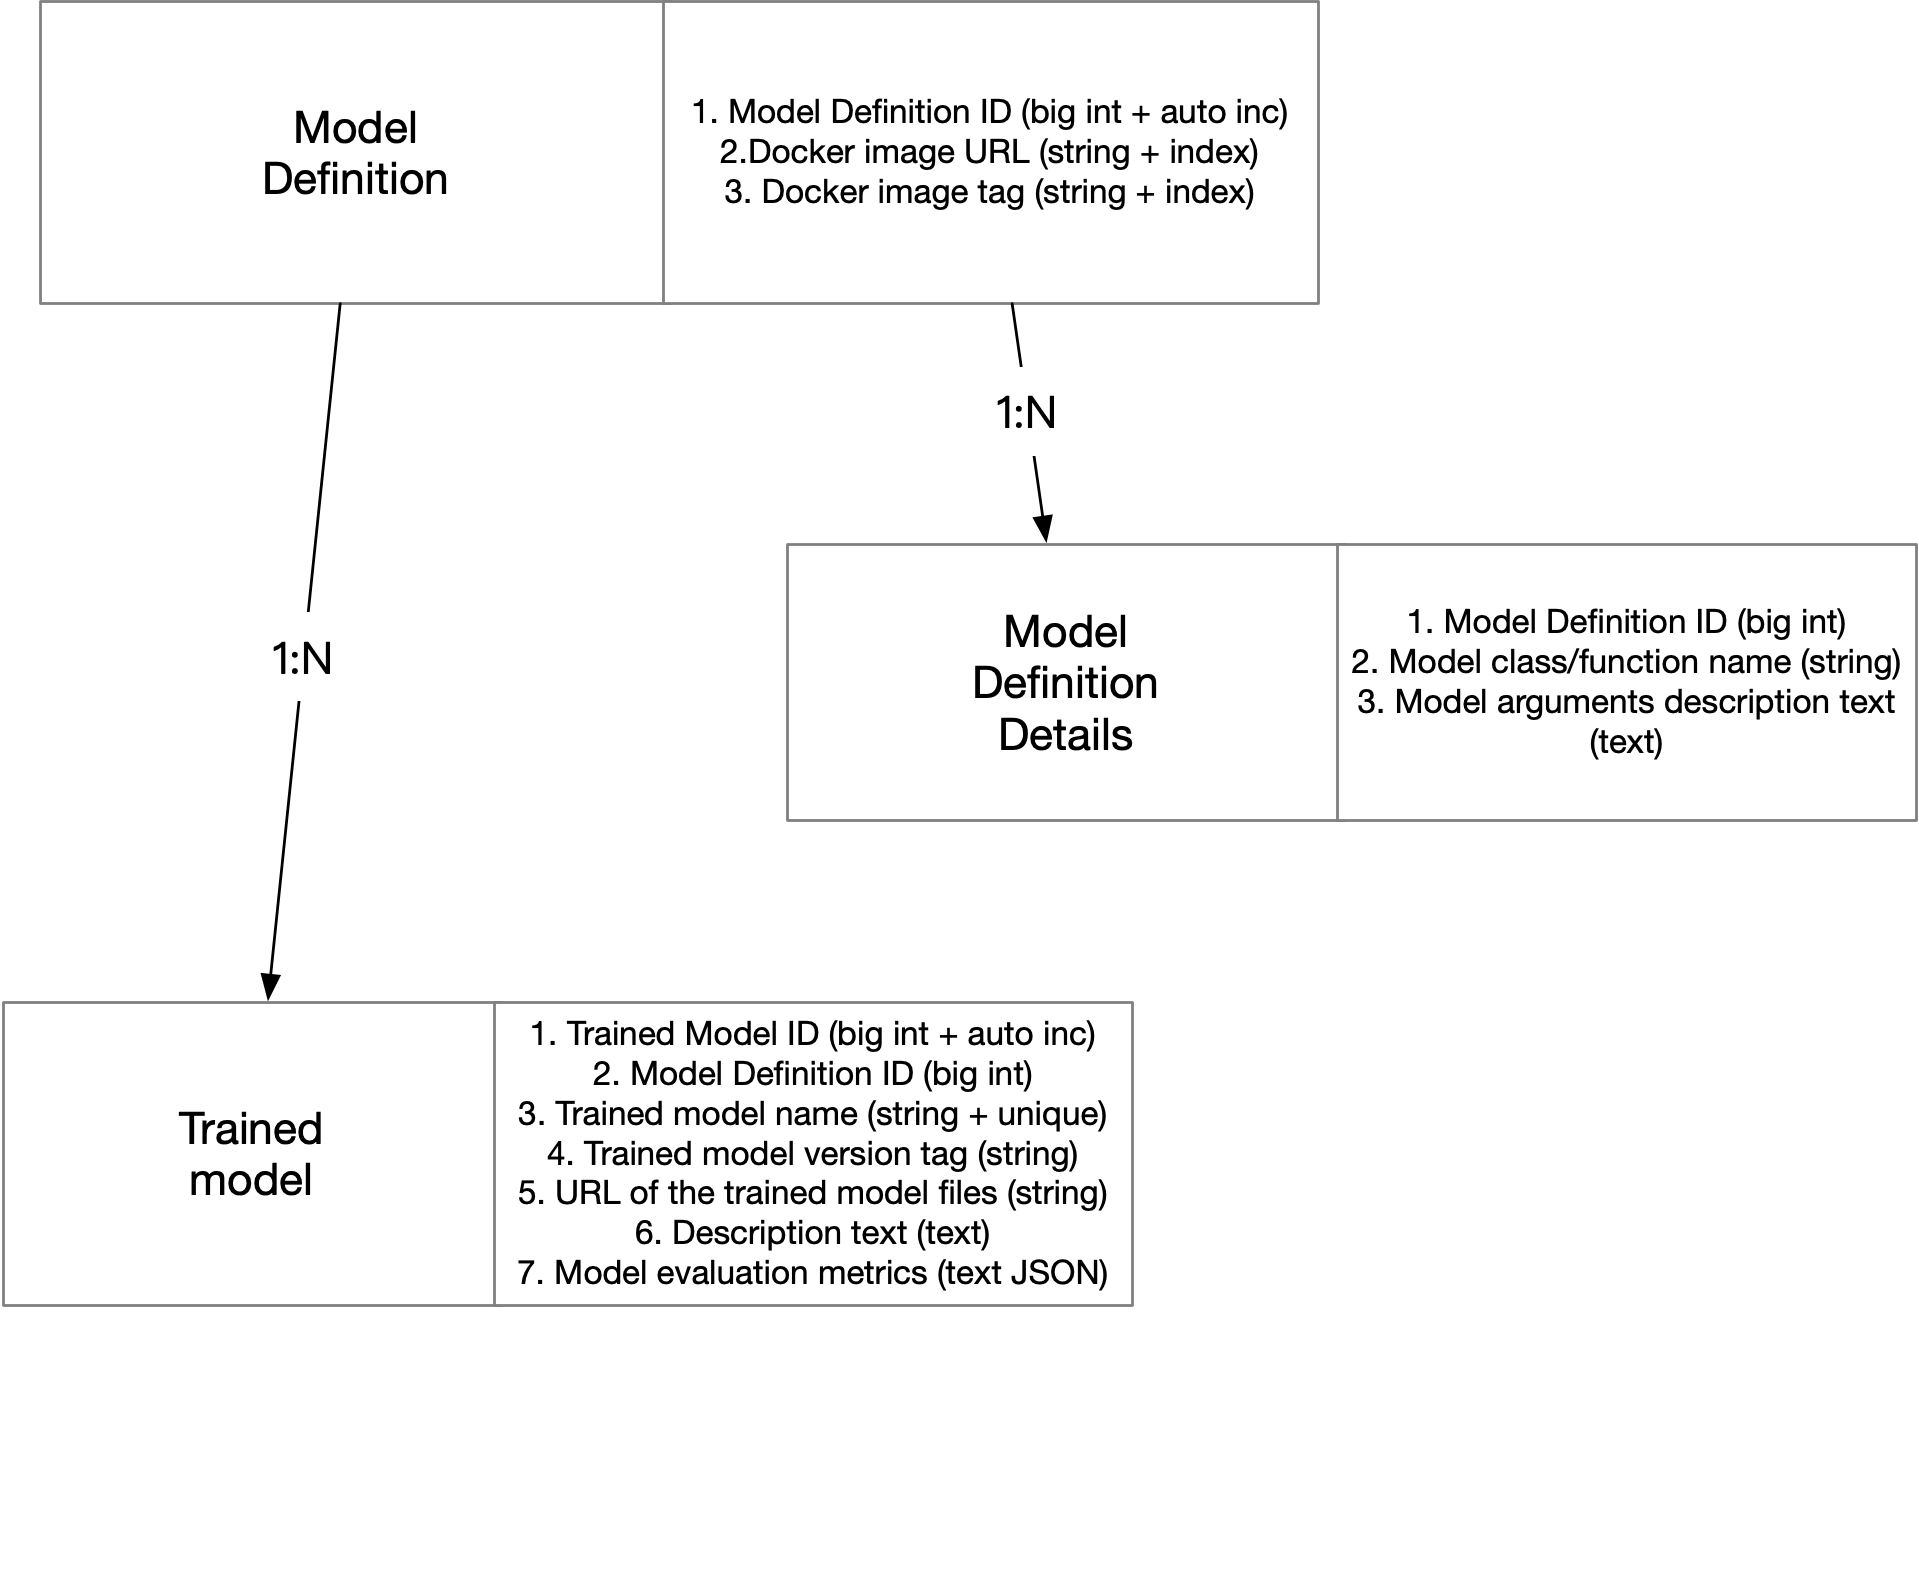
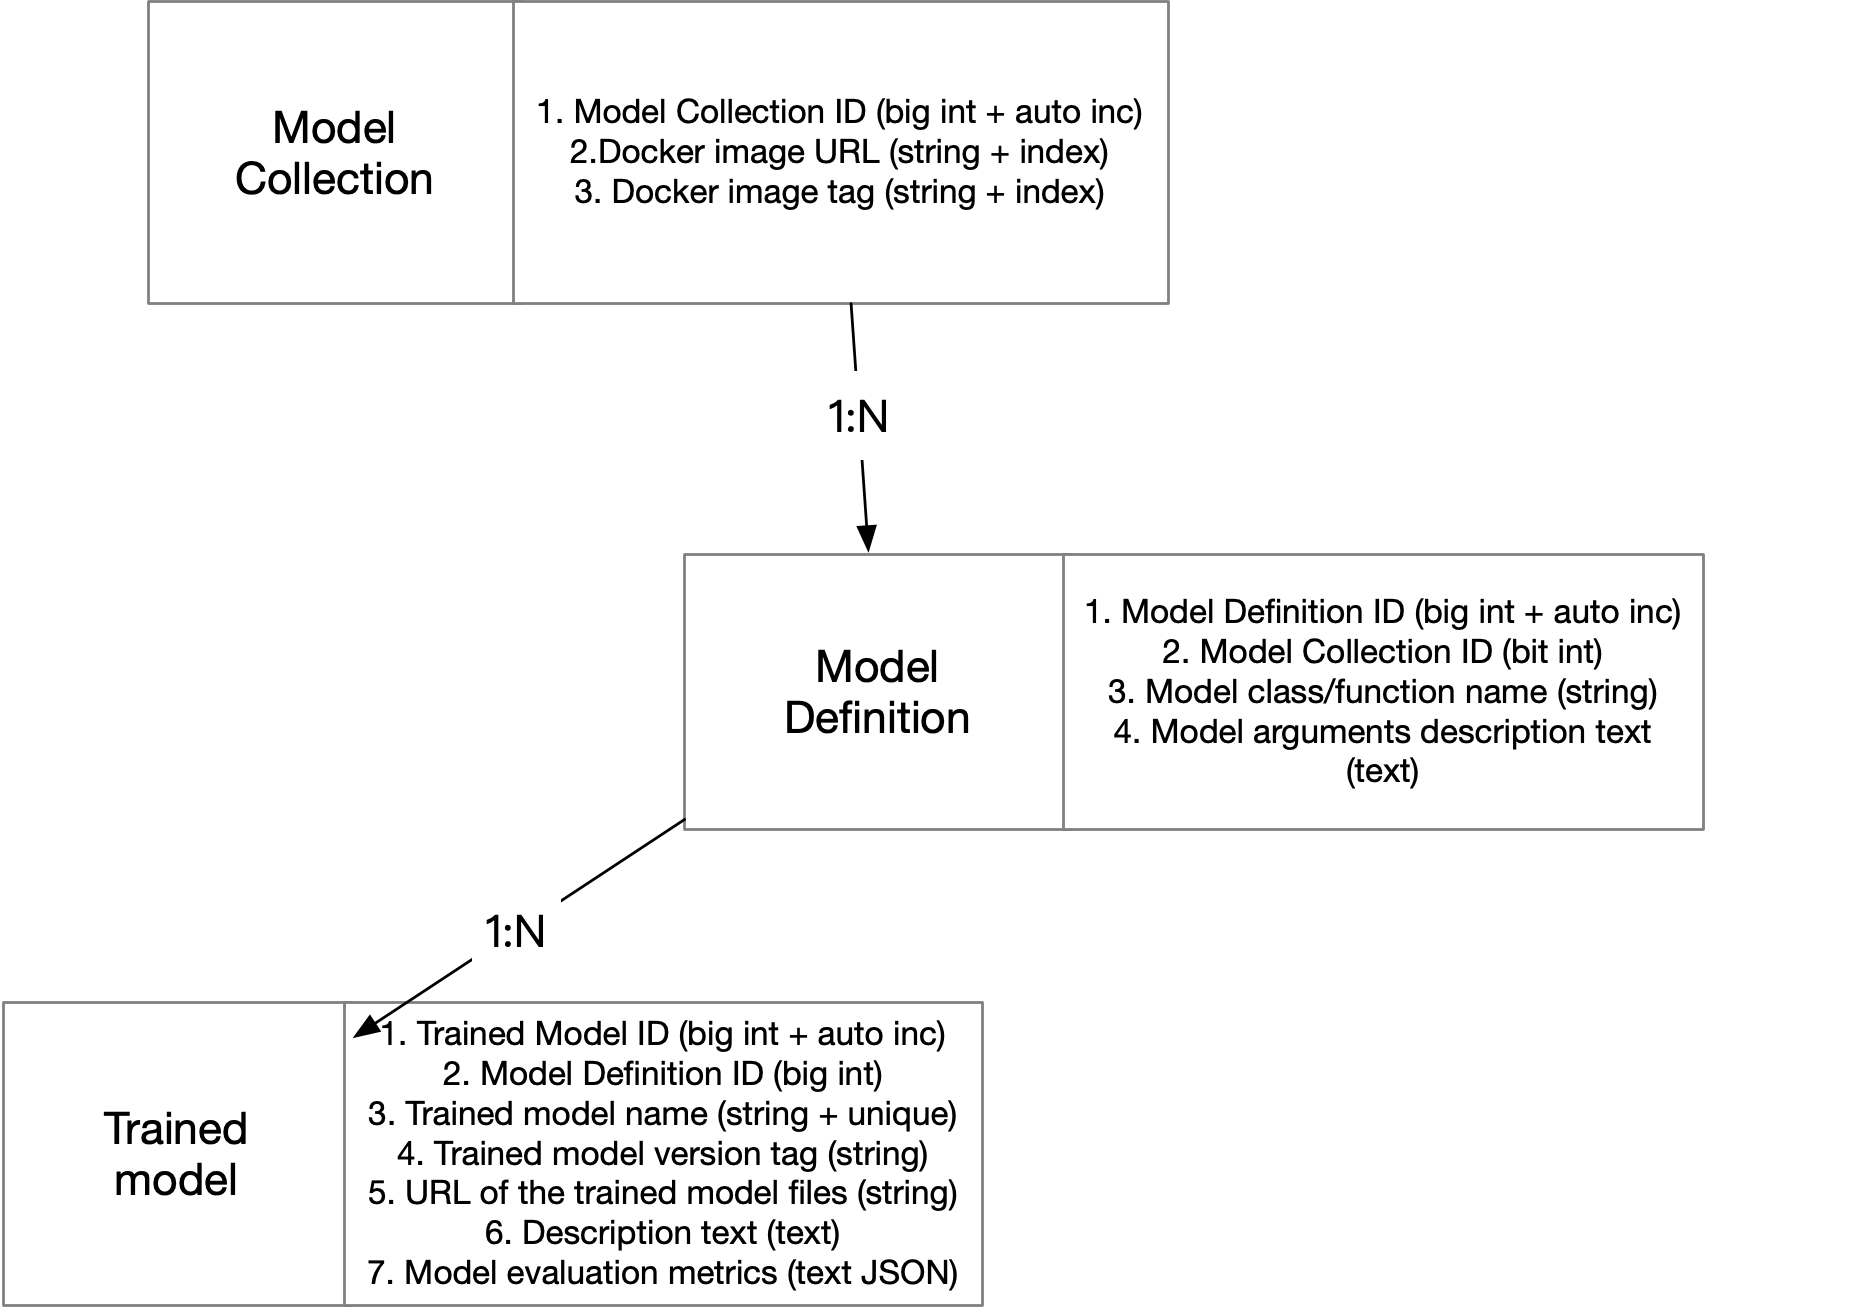
Update model zoo design ER image and re-phrase

diff --git a/doc/design/model_zoo.md b/doc/design/model_zoo.md
@@ -38,6 +38,7 @@ The above training and prediction example reveals some concepts related to model
 1. A **dataset** is defined and generated by a SQL SELECT statement. For example, `SELECT * FROM employee WHERE onboard_year < 2019`.
 1. A **data source** is a table, for example, `employee`.  Please be aware that we can cache and reuse a dataset until its data sources are changed.
 1. A **model definition**, for example, `MyDNNRegressor`, is a Python class or other kinds of code that specify a model.
+1. A **model collection** is a Docker image that packs a list model definitions.
 1. The SQL data to model inputs conversion, or **data conversion**, is the COLUMN and optionally LABEL clauses.
 1. Hyperparameters
    1. **Model hyperparameters** are some key-value pairs specified in the WITH clause. They are arguments to the constructor of the model definition.
@@ -56,7 +57,7 @@ In SQLFlow SQL grammar, the identifiers after `TRAIN`, `USING` and `INTO` have d
 
 ### Versioning and Releasing
 
-A key to this design is to know that both the model definition and the trained model have versions. Suppose that an analyst trained a model using the definition in `my_dnn_regressor.py` and got `my_first_model`; soon after that, a data scientist changed `my_dnn_regressor.py` and the analyst re-trained the model into `my_second_model` with slightly modified hyperparameter settings. The analyst must be aware that he should use the same version of `my_dnn_regressor.py` to train these two models. Then if the analyst decides to publish the trained model `my_second_model` for online prediction, he should choose to use `my_second_model` rather than `my_first_model`.
+A key to this design is to know that both the model definitions and the trained models have versions. Suppose that an analyst trained a model using the definition in `my_dnn_regressor.py` and got `my_first_model`; soon after that, a data scientist changed `my_dnn_regressor.py` and the analyst re-trained the model into `my_second_model` with slightly modified hyperparameter settings. The analyst must be aware that he should use the same version of `my_dnn_regressor.py` to train these two models. Then if the analyst decides to publish the trained model `my_second_model` for online prediction, he should choose to use `my_second_model` rather than `my_first_model`.
 
 We can use version management tools like Git and release engineering tools like Docker and save the trained model with a unique name. Here follows our proposal.
 
@@ -69,12 +70,12 @@ We can use version management tools like Git and release engineering tools like 
 
 Please refer to [contribute models](../contribute_models.md) section "Define Models as Python Source Code" for details of how to develop a custom model definition. You can manage your model definition with a git repository before releasing it to the model zoo.
 
-### Release the Model Definition Docker Image
+### Release the Model Collection Docker Image
 
-When the model developer needs to release the model for SQLFlow to use, run the below command to release your model definition.
+When the model developer needs to release the model for SQLFlow to use, run the below command to release your model definitions.
 
 ```bash
-$ sqlflow release modeldef my_awesome_model/ model_image:v0.1
+$ sqlflow release modelcoll my_awesome_model/ model_image:v0.1
 
 checking model is valid ...[OK]
 building model docker image with version v0.1 ... [OK]
@@ -84,23 +85,23 @@ Model added successfully，You can run it `TO TRAIN your-registry.com/public/mod
 
 The SQLFlow command-line tool will connect to the model zoo server, upload the files in the folder `my_awesome_model/`. Then the model zoo server will build the Docker image and push it to the pre-configured Docker registry.
 
-If the model definition image `model_image:v0.1` already exists, the above command should fail. To force overwrite the model definition image you should run:
+If the model collection image `model_image:v0.1` already exists, the above command should fail. To force overwrite the model collection image you should run:
 
 ```bash
-$ sqlflow release modeldef -f my_awesome_model/ model_image:v0.1
+$ sqlflow release modelcoll -f my_awesome_model/ model_image:v0.1
 ```
 
-When the model definition goes out of date, you may need to delete it:
+When the model collection goes out of date, you may need to delete it:
 
 ```bash
-$ sqlflow delete modeldef model_image:v0.1
+$ sqlflow delete modelcoll model_image:v0.1
 ```
 
-### Use the Model Definition Docker Image
+### Use the Model Collection Docker Image
 
 For a SELECT program using the SQLFlow syntax extension, the SQLFlow server converts it into a [workflow](workflow.md) and submit the workflow job to a workflow engine like Argo/Tekton on Kubernetes. Each step in the workflow is one SQL statement.
 
-By default, we use a default Docker image to run the training, predicting or explaining job. The default Docker image contains pre-made Tensorflow estimator models, Keras models defined in [sqlflow_models repo](https://github.com/sql-machine-learning/models) and XGBoost. To use a custom model definition Docker image, write SQL statements mentioned above:
+By default, we use a default Docker image to run the training, predicting or explaining job. The default Docker image contains pre-made Tensorflow estimator models, Keras models defined in [sqlflow_models repo](https://github.com/sql-machine-learning/models) and XGBoost. To use a custom model collection Docker image, write SQL statements mentioned above:
 
 ```sql
 SELECT * FROM employee WHERE onboard_year < 2019
@@ -171,24 +172,24 @@ The model zoo server is responsible to accept SQLFlow command-line's `release` a
     username=sqlflow_model_zoo_public
     password=xxxx
     ```
-- When releasing a model definition, the SQLFlow server will get the client uploaded file folder with a `Dockerfile` inside, then:
+- When releasing a model collection, the model zoo server will get the client uploaded file folder with a `Dockerfile` inside, then:
     1. Check if the Docker image with the same name and tag already exists on the registry.
     1. Try to validate whether the contents of the folder have valid model definitions by checking the exported classes, if the class is a sub class of `tf.keras.Model` or if the name is a function that returns an object of `tf.keras.Model`, it is valid.
     1. Run `docker build` to build a Docker image with the image name and tag specified by the user command.
     1. Run `docker push` to push the Docker image to the Docker registry. The pushed image should be publicly readable.
-    1. Write a row in the MySQL instance to recored this model definition Docker image.
-- When releasing a trained model, the SQLFlow server will:
+    1. Write a row in the MySQL instance to recored this model collection Docker image.
+- When releasing a trained model, the model zoo server will:
     1. Copy the trained model parameters together with all nessesary metadatas to the public storage. For PAI deployments, we use a public folder on the OSS; For other deployments we use a public database space on the database system, each table in the public database stores a trained model.
     1. Write an recored in the MySQL instance to recored the trained model URI and the trained model's name. The URI should be like `oss://bucket/path/to/your/model/` or `mysql://ip:port/database/table` to point to the actual place that stores the public trained model.
-- When deleting a model definition or a trained model, do the reverse.
+- When deleting a model collection image or a trained model, do the reverse. **Note that we do not really delete the record in MySQL, yet we set the `deleted` flag so that the deleted model collection or trained model will not be listed. Then if some one is using a trained model trained by a deleted model collection, the trained model can still be available.**
 
 ### Model Zoo Server Database Schema
 
 We create three tables using the schema described in the below figure:
 
-1. Table `model_definition` stores model definition Docker images with it's corresponding version tags.
-2. Table `model_definition_details` stores model definition details provided by each Docker image. Note that each Docker image may have multiple model definition classes or functions.
-3. Table `trained_models` stores the unique name of the trained model and a URL point to where the trained model is actually saved. Note that each model definition can be used to train multiple trained models.
+1. Table `model_collection` stores model collection Docker images with it's corresponding version tags.
+2. Table `model_definition_details` stores model collection details provided by each Docker image. Note that each Docker image may have multiple model definition classes or functions.
+3. Table `trained_models` stores the unique name of the trained model and a URL point to where the trained model is actually saved. Note that each model collection can be used to train multiple trained models.
 
 ![](figures/model_zoo_er.png)
 
@@ -207,10 +208,10 @@ There are three roles in the ecosystem of SQLFlow:
 
 ![](figures/model_zoo_summary.png)
 
-Any data scientist can create an arbitrary number of Docker images, and in each Docker image, there could be any number of model definitions. There are some concepts from the perspective of a data scientist `a_data_scientist`:
+Any data scientist can create an arbitrary number of Docker images, and in each Docker image, there could be any number of model definitions (classes or functions defines the model structure). There are some concepts from the perspective of a data scientist `a_data_scientist`:
 
-1. Develop model definitions in a Git repo, say, `github.com/a_data_scientist/regressors`.
-1. Release the model definition to SQLFlow using the command `sqlflow release modeldef -f my_awesome_model/ model_image:v0.1`
+1. Develop model definitions in a Git repo as the "model collection", say, `github.com/a_data_scientist/regressors`.
+1. Release the model collection to SQLFlow using the command `sqlflow release modeldef -f my_awesome_model/ model_image:v0.1`
 1. Do model training experiments untils a trained model is ready to release.
 1. Release the trained model using the command `sqlflow release trained my_first_model v0.1`.
 
